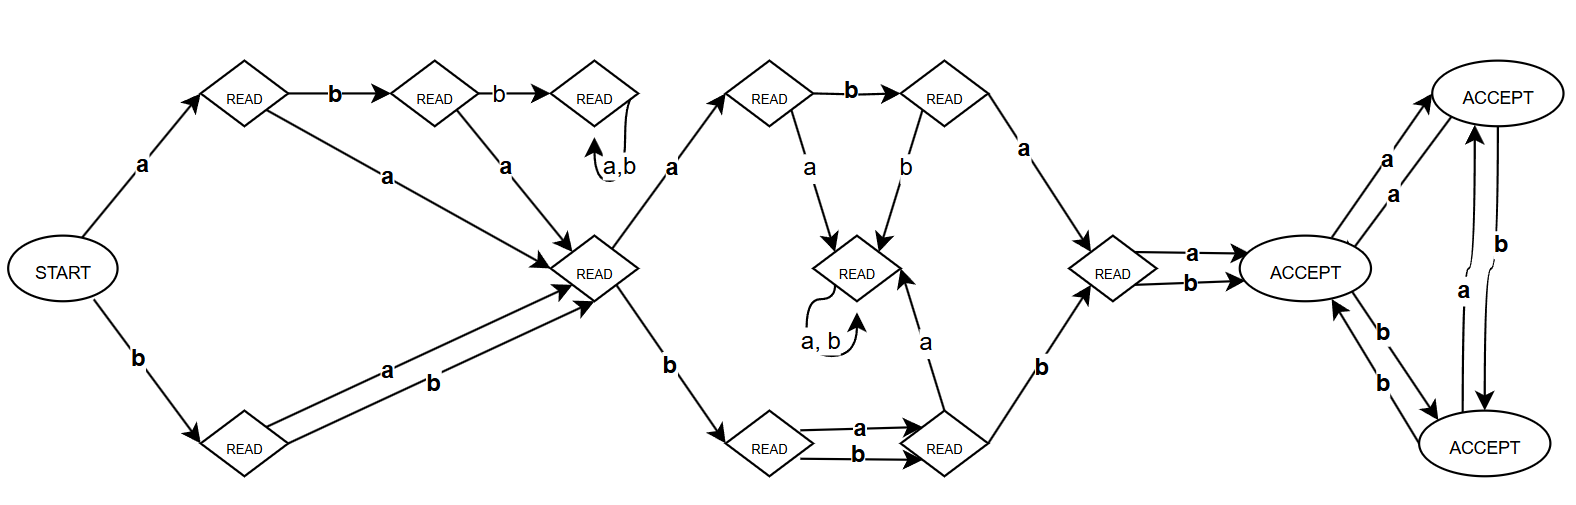
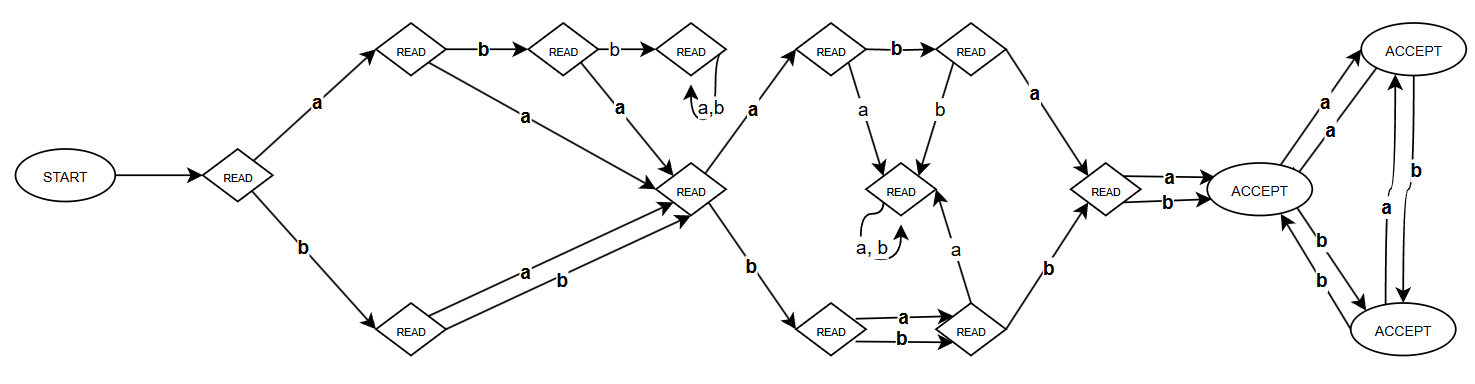
Update PDA image and Documentation

diff --git a/templates/Documentation.html b/templates/Documentation.html
@@ -287,7 +287,7 @@
 
 
             <p class="subtitle">Pushdown Automata (0 & 1)</p>  
-            <img src="{{ url_for('static', filename='images/PDA2n.png') }}" alt="REGEX">
+            <img src="{{ url_for('static', filename='images/FINALPDA2.png') }}" alt="REGEX">
             <p class="given">
             Like the first PDA, the second is built using the second CFG to ensure the correct recognition and processing of appropriate strings within its language. The second PDA is built with labeled states helping direct the computation, showing an initial state, several transition states and a final state, all linked by arrows pointing to the next state. Using the input characters ‘1’ and ‘0’, these transitions define the action of the PDA for each symbol in the input sequence while it uses the stack.             
             </p>
@@ -297,7 +297,7 @@
             </p> 
             
             <p class="subtitle">Pushdown Automata (a & b)</p>  
-            <img src="{{ url_for('static', filename='images/PDA1.png') }}" alt="REGEX">
+            <img src="{{ url_for('static', filename='images/FINALPDA1.png') }}" alt="REGEX">
             <p class="given">
             The first PDA uses the first given Context-Free Grammar which allows it to identify strings in the specified language. There are several described states in the PDA, including START, READ and ACCEPT, connected to each other by arrows that represent possible movements caused by input letters. In PDA, these states refer to different steps where the automaton uses a stack to check for context.                
             </p>
